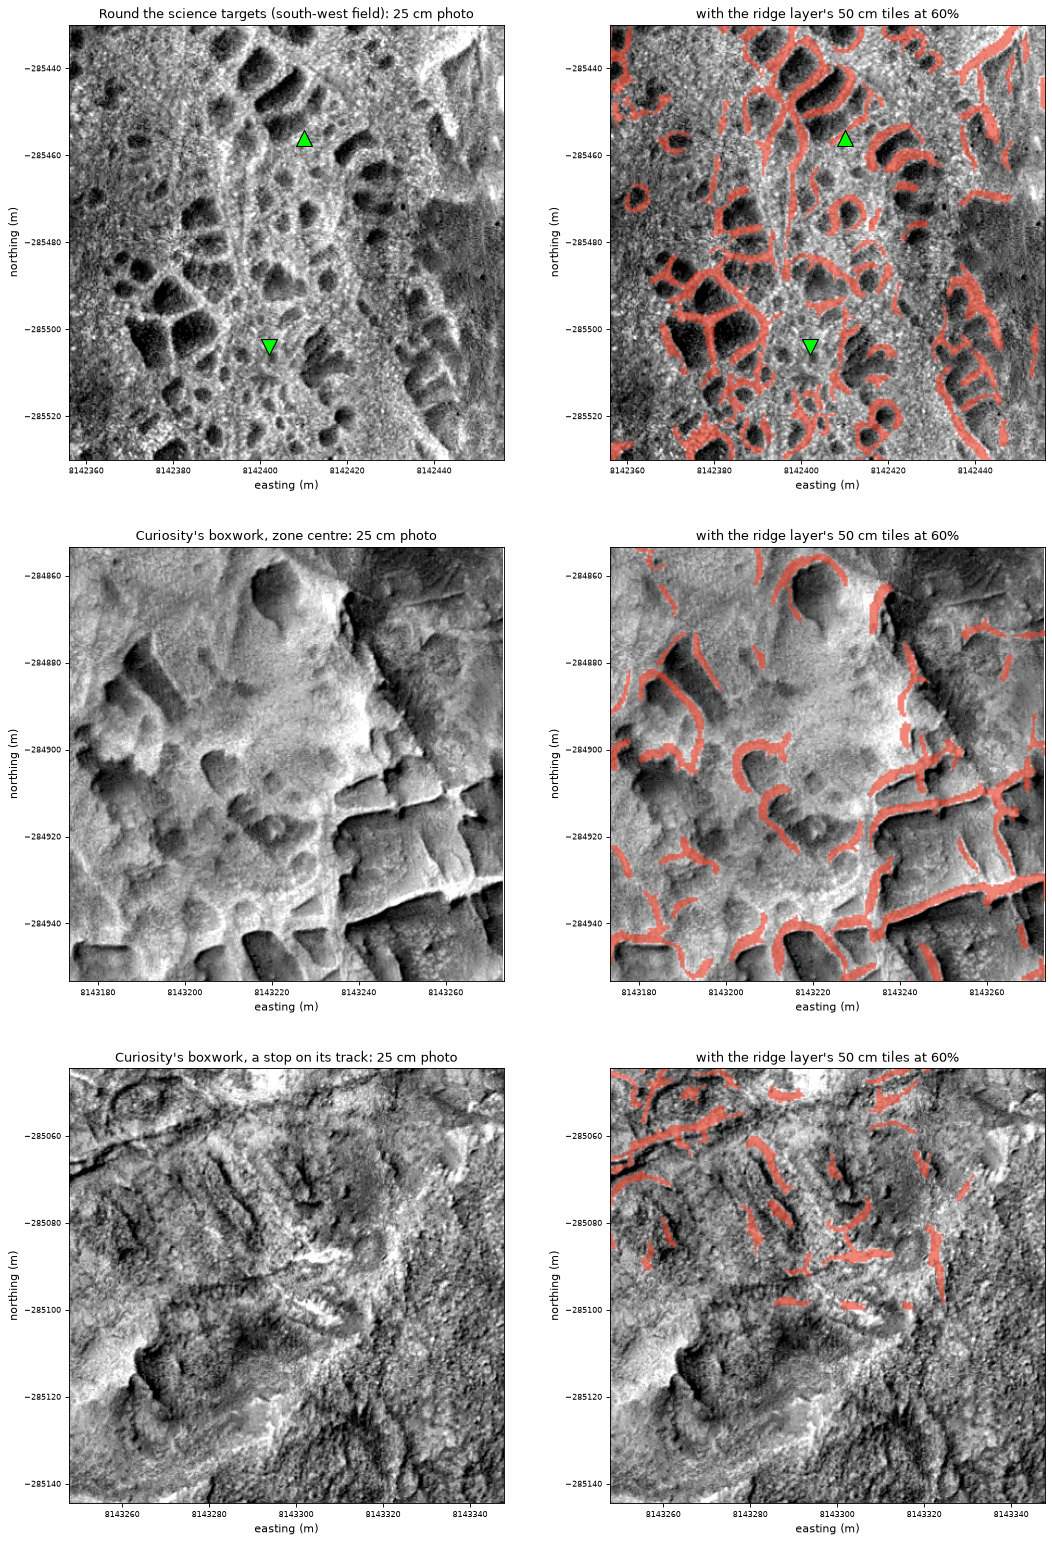
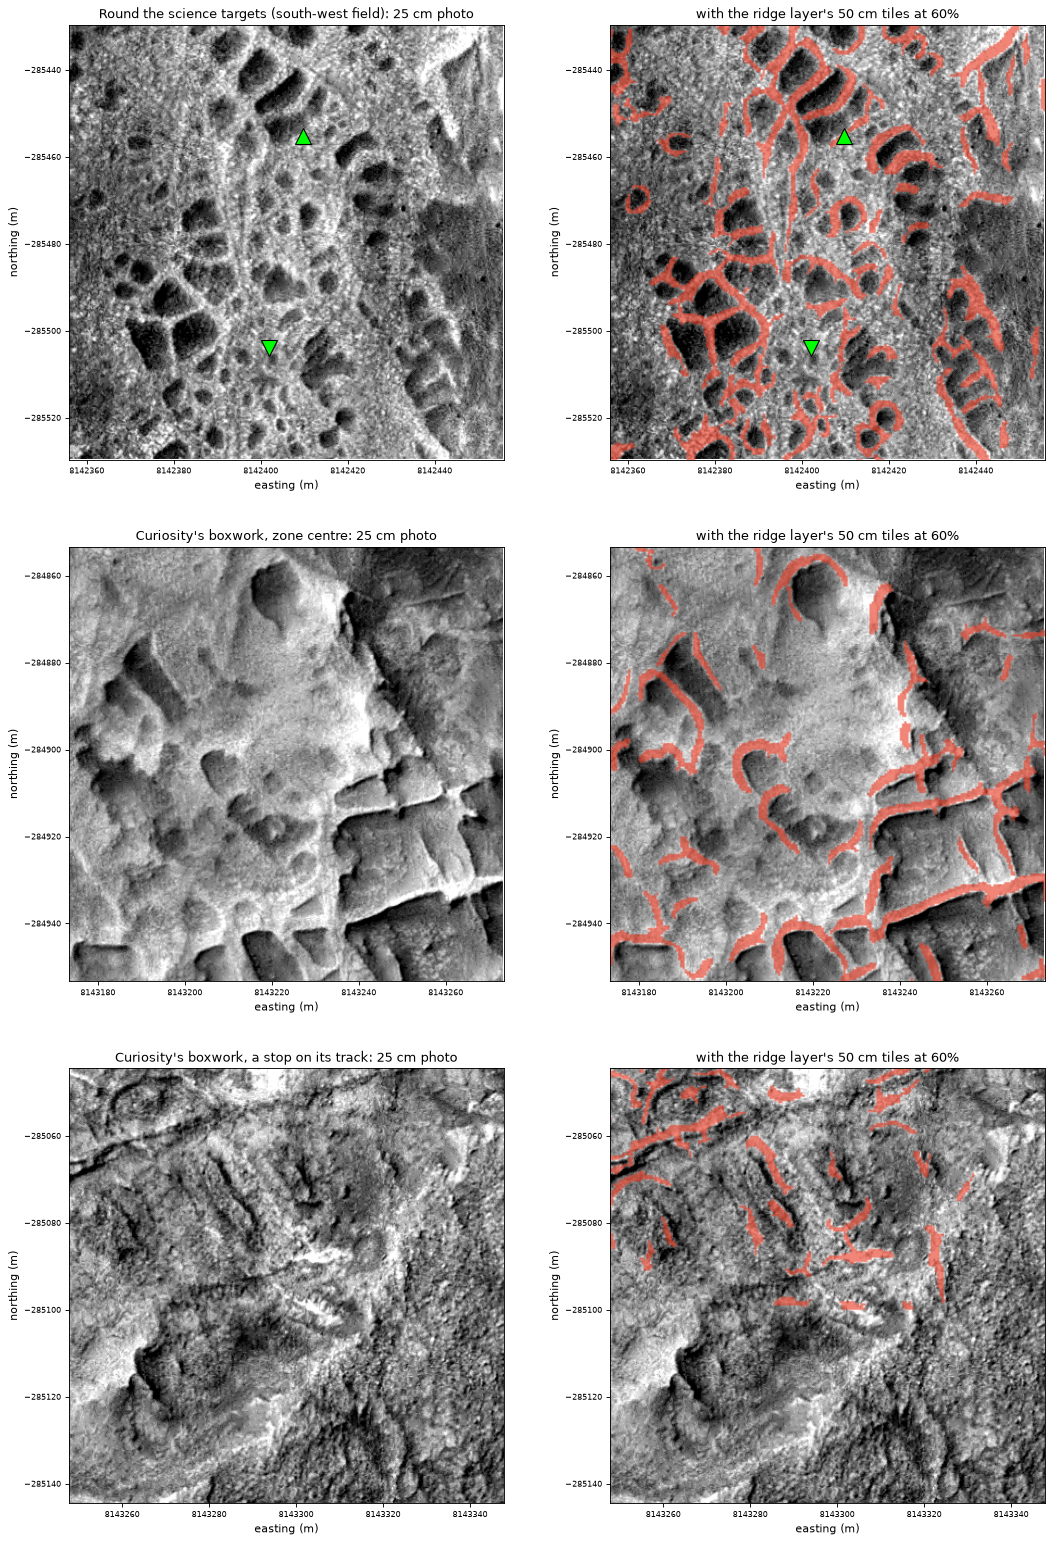
fix: ridge target on the crest, masks staged to the end, drill records by place (#20)

Changed region(s): [[0.0304, 0.0, 0.4867, 0.3111], [0.5475, 0.0, 1.0, 0.3111]]

diff --git a/prep/gale/build_layers_2_3.py b/prep/gale/build_layers_2_3.py
@@ -16,10 +16,11 @@ $REDMARK_DATA/gale/:
 and, in the repo, `files.sand`, `files.ridges` and `science_targets` in sites/gale.yaml
 and copies of the overlays in prep/gale/evidence/.
 
-The science targets are checked before anything is published, the sand and ridge
-rasters included: each must sit inside the walk radius and a boxwork zone, clear of
-Curiosity's track and drill sites, a ridge target on the ridge map and a hollow target
-off it, and the route engine must find a safe route to it from base camp within the
+Nothing live changes until every layer, raster and overlay is built and the science
+targets are checked; then all are published together, the sand and ridge rasters
+included. The targets: each must sit inside the walk radius and a boxwork zone, clear of
+Curiosity's track and drill sites, a ridge target on a ridge pixel and a hollow target
+off the ridge map, and the route engine must find a safe route to it from base camp within the
 app's default limits on the new rasters.
 """
 
@@ -125,11 +126,6 @@ def build(root: Path) -> None:
         daylight_s=daylight_s(json.loads(conditions.read_text())),
     )
     print(f"{len(targets)} science targets pass; {len(drilled)} drill sites in the crop")
-    # Only now do the route engine's rasters change.
-    for key, path in (("sand", SAND_RASTER), ("ridges", RIDGE_RASTER)):
-        (root / path).parent.mkdir(parents=True, exist_ok=True)
-        os.replace(root / staged[key], root / path)
-    sand, ridges = root / SAND_RASTER, root / RIDGE_RASTER
 
     points = [
         {"x": float(r["x"]), "y": float(r["y"]), "so3": float(r["SO3"]), "drill": False}
@@ -142,17 +138,18 @@ def build(root: Path) -> None:
     build_minerals_layer(root / files["crism"], walk, stage / "minerals", crism_source)
     apxs_source = {"name": "MSL APXS RDR concentrations (" + APXS_CREDIT + ")", "url": APXS_URL}
     build_chemistry_layer(points, walk, stage / "chemistry", apxs_source)
+    # Each input as (the path it is published at, where it is now).
     inputs = {
-        "sand": [files["thermal_inertia"], SAND_RASTER],
-        "ridges": [files["photo_map"], RIDGE_RASTER],
-        "minerals": [files["crism"]],
-        "chemistry": [files["chemistry"]],
+        "sand": [(files["thermal_inertia"], root / files["thermal_inertia"]), (SAND_RASTER, sand)],
+        "ridges": [(files["photo_map"], root / files["photo_map"]), (RIDGE_RASTER, ridges)],
+        "minerals": [(files["crism"], root / files["crism"])],
+        "chemistry": [(files["chemistry"], root / files["chemistry"])],
     }
     for name, paths in inputs.items():
         provenance = {
             "script": "prep/gale/build_layers_2_3.py",
             "commit": commit,
-            "inputs": [{"path": p, "sha256": sha256(root / p)} for p in paths]
+            "inputs": [{"path": p, "sha256": sha256(now)} for p, now in paths]
             + [
                 {"path": "sites/gale.yaml", "sha256": hashlib.sha256(config).hexdigest()},
                 {
@@ -163,29 +160,37 @@ def build(root: Path) -> None:
         }
         (stage / name / "provenance.json").write_text(json.dumps(provenance, indent=2) + "\n")
 
+    print("overlays")
+    overlay_dir = stage / "overlays"
+    overlay_dir.mkdir(parents=True, exist_ok=True)
+    photo = root / files["photo_map"]
+    written = [
+        overlays.walkability(photo, stage, walk, habitat, zones, track, overlay_dir),
+        overlays.ridge_samples(
+            photo, stage / "ridges", _sample_areas(spec, track), targets, overlay_dir
+        ),
+        overlays.science(photo, stage, walk, habitat, targets, drilled, track, overlay_dir),
+    ]
+
+    # Everything built and checked: only now does anything live change, the route
+    # engine's rasters included.
     (root / LAYERS).mkdir(parents=True, exist_ok=True)
     for name in inputs:
         publish_stage(stage / name, root / LAYERS / name)
-    shutil.rmtree(stage, ignore_errors=True)
-
-    print("overlays")
-    overlay_dir = root / LAYERS / "overlays"
-    overlay_dir.mkdir(parents=True, exist_ok=True)
-    photo = root / files["photo_map"]
-    layers = root / LAYERS
-    written = [
-        overlays.walkability(photo, layers, walk, habitat, zones, track, overlay_dir),
-        overlays.ridge_samples(
-            photo, layers / "ridges", _sample_areas(spec, track), targets, overlay_dir
-        ),
-        overlays.science(photo, layers, walk, habitat, targets, drilled, track, overlay_dir),
-    ]
+    for key, path in (("sand", SAND_RASTER), ("ridges", RIDGE_RASTER)):
+        (root / path).parent.mkdir(parents=True, exist_ok=True)
+        os.replace(root / staged[key], root / path)
+    # The overlays folder holds layer 1's overlays too, so only these files are replaced.
+    live_overlays = root / LAYERS / "overlays"
+    live_overlays.mkdir(parents=True, exist_ok=True)
     EVIDENCE.mkdir(parents=True, exist_ok=True)
     for png in written:
-        shutil.copy(png, EVIDENCE / png.name)
+        os.replace(png, live_overlays / png.name)
+        shutil.copy(live_overlays / png.name, EVIDENCE / png.name)
+    shutil.rmtree(stage, ignore_errors=True)
 
     _add_to_site_config(targets)
-    print(f"layers written to {layers}")
+    print(f"layers written to {root / LAYERS}")
 
 
 def _sample_areas(spec: dict, track) -> list[tuple[str, tuple[float, float]]]:

diff --git a/prep/tests/test_gale_walkability_science.py b/prep/tests/test_gale_walkability_science.py
@@ -5,14 +5,16 @@ hole stays unknown; the ridge finder finds a grid of bright 1 m lines on flat gr
 not the hollows between them nor a lone bright speck; the route's own reader reads
 both files as masks. Layer writer: each layer.json validates with its group,
 resolution and source. Science targets: a target on a drill site, on Curiosity's
-track or past the walk radius is refused; a ridge target must sit on a ridge and a
-hollow target off one, and a target with any other kind is refused; a target walled off
-from base camp by ground over the slope limit is refused. The sand layer's tiles show
-firm ground in its own legend colour and leave only unknown ground transparent.
+track or past the walk radius is refused; a ridge target must sit on a ridge pixel,
+not beside one, and a hollow target off any; a target with any other kind is refused;
+a target walled off from base camp by ground over the slope limit is refused, and the
+build checks reachability under the app's own default limits. The sand layer's tiles
+show firm ground in its own legend colour and leave only unknown ground transparent.
 
 Expected values are worked by hand from the fixtures, not from the code.
 """
 
+import re
 from pathlib import Path
 
 import numpy as np
@@ -26,9 +28,9 @@ from contracts.models.common import Point
 from contracts.models.layer import LayerMeta
 from contracts.models.route_request import Limits
 from contracts.models.site import SiteConfig
+from contracts.paths import REPO_ROOT
+from prep.gale.build_layers_2_3 import APP_LIMITS
 from prep.gale.layers import (
-    FIRM_COLOUR,
-    SAND_COLOUR,
     build_chemistry_layer,
     build_minerals_layer,
     build_ridges_layer,
@@ -94,11 +96,12 @@ def test_the_sand_tiles_colour_sand_and_firm_ground_and_leave_unknown_transparen
         for r in range(2)
         for c in range(2)
     }
+    # The legend's own swatches, written out so two equal colours can't pass.
     assert colour == {
-        (0, 0): SAND_COLOUR,
-        (0, 1): FIRM_COLOUR,
+        (0, 0): "#e0a43a",
+        (0, 1): "#7a8c99",
         (1, 0): None,
-        (1, 1): FIRM_COLOUR,
+        (1, 1): "#7a8c99",
     }
 
 
@@ -296,7 +299,7 @@ def _check(targets, ridges, **changes):
     check_targets(targets, **args)
 
 
-def test_drill_sites_are_the_tailings_rows_one_per_hole():
+def test_drill_sites_are_the_tailings_rows_one_per_rover_position():
     assert drill_sites(CHEMISTRY_ROWS) == [
         {"name": "Deep_Hole", "sol": 4706, "x": 1110.0, "y": 2010.0}
     ]
@@ -310,7 +313,10 @@ def test_a_ridge_centre_and_a_hollow_clear_of_curiosity_pass(ridges):
     ("target", "changes", "reason"),
     [
         (HOLLOW_TARGET | {"x": 1038.0}, {}, "sits on a ridge"),
-        (RIDGE_TARGET | {"x": 1030.5, "y": 2104.5}, {}, "no ridge within"),
+        (RIDGE_TARGET | {"x": 1030.5, "y": 2104.5}, {}, "not on a ridge pixel"),
+        # Ridge pixels run x 1022 to 1024 here: 1024.4 is beside the crest, 0.65 m
+        # from the nearest ridge pixel's centre.
+        (RIDGE_TARGET | {"x": 1024.4}, {}, "not on a ridge pixel"),
         (
             HOLLOW_TARGET,
             {"drill_sites": [{"name": "Near", "sol": 1, "x": 1030.5, "y": 2140.0}]},
@@ -364,3 +370,19 @@ def test_a_target_walled_off_from_base_camp_is_refused_and_an_open_one_passes():
         )
     refused_ids = [line.split(":")[0] for line in str(refused.value).splitlines()[1:]]
     assert refused_ids == ["walled"]
+
+
+def test_the_builds_route_limits_are_the_apps_defaults():
+    # The app's own defaults, read from its source, so a change there fails here.
+    app = (REPO_ROOT / "app" / "src" / "plan" / "routes.ts").read_text()
+
+    def const(name: str) -> float:
+        return float(re.search(rf"const {name} = ([0-9.]+);", app).group(1))
+
+    default_slope = float(re.search(r"SLOPE_LIMITS = \[([0-9.]+),", app).group(1))
+    assert APP_LIMITS.model_dump() == {
+        "max_slope_deg": default_slope,
+        "max_distance_from_habitat_m": const("MAX_DISTANCE_FROM_HABITAT_M"),
+        "planning_speed_kmh": const("PLANNING_SPEED_KMH"),
+        "max_walk_h": const("MAX_WALK_H"),
+    }

diff --git a/prep/gale/overlays.py b/prep/gale/overlays.py
@@ -471,13 +471,15 @@ def science(photo, layers, walk, habitat, targets, drilled, track, folder) -> Pa
     _show_gray(overview, image, extent)
     colours, c_extent = _mosaic(layers / "chemistry", meta["tiles"]["max_zoom"])
     overview.imshow(_masked(colours), extent=c_extent)
-    _drill_labels(overview, inside)
+    places = _drill_places(inside)
+    _drill_labels(overview, places)
     overview.plot(*habitat, "*", c="cyan", ms=16, mec="black")
     overview.set_xlim(whole[0], whole[2])
     overview.set_ylim(whole[1], whole[3])
     overview.legend(handles=_legend(meta), loc="lower left", fontsize=8)
     overview.set_title(
-        f"Whole chemistry layer, 1 m tiles: APXS points by SO3 and {len(inside)} drill sites"
+        f"Whole chemistry layer, 1 m tiles: APXS points by SO3; {len(inside)} APXS records on"
+        f" drill tailings at {len(places)} places"
     )
 
     cx = sum(d["x"] for d in inside) / len(inside)
@@ -488,7 +490,7 @@ def science(photo, layers, walk, habitat, targets, drilled, track, folder) -> Pa
     colours, c_extent = _mosaic(layers / "chemistry", meta["tiles"]["max_zoom"], box)
     zoom.imshow(_masked(colours), extent=c_extent)
     _drill_labels(
-        zoom, [d for d in inside if box[0] <= d["x"] <= box[2] and box[1] <= d["y"] <= box[3]]
+        zoom, [p for p in places if box[0] <= p["x"] <= box[2] and box[1] <= p["y"] <= box[3]]
     )
     zoom.set_xlim(box[0], box[2])
     zoom.set_ylim(box[1], box[3])
@@ -498,11 +500,33 @@ def science(photo, layers, walk, habitat, targets, drilled, track, folder) -> Pa
     return out
 
 
-def _drill_labels(ax, drilled) -> None:
+# Drill-tailings records this close share one label: the record does not say whether
+# they are one hole (Nevado Sajama and Nevado Sajama2 sit 0.7 m apart).
+DRILL_PLACE_M = 2.0
+
+
+def _drill_places(drilled) -> list[dict]:
+    """Drill-tailings records grouped by place, each {"x", "y", "label"}."""
+    places: list[dict] = []
     for d in drilled:
+        near = next(
+            (p for p in places if math.dist((p["x"], p["y"]), (d["x"], d["y"])) <= DRILL_PLACE_M),
+            None,
+        )
+        if near is None:
+            near = {"x": d["x"], "y": d["y"], "records": []}
+            places.append(near)
+        near["records"].append(f"{d['name']} (sol {d['sol']})")
+    return [{"x": p["x"], "y": p["y"], "label": ", ".join(p["records"])} for p in places]
+
+
+def _drill_labels(ax, places) -> None:
+    # Each label one line lower than the last, so places metres apart stay readable.
+    for i, p in enumerate(places):
         ax.annotate(
-            f"{d['name']} (sol {d['sol']})", (d["x"], d["y"]), color="cyan", fontsize=8,
-            xytext=(8, -4), textcoords="offset points",
+            p["label"], (p["x"], p["y"]), color="cyan", fontsize=8,
+            xytext=(8, -4 - 11 * i), textcoords="offset points",
+            arrowprops={"arrowstyle": "-", "color": "cyan", "lw": 0.5},
         )  # fmt: skip
 
 

diff --git a/prep/gale/science.py b/prep/gale/science.py
@@ -45,14 +45,16 @@ def mineral_classes(bands: dict[str, np.ndarray]) -> np.ndarray:
 TARGET_CLEAR_OF_TRACK_M = 25.0
 TARGET_CLEAR_OF_DRILL_M = 50.0
 TARGET_KINDS = ("ridge", "hollow")
-# A ridge target sits on the ridge map; a hollow target has no ridge this close.
-RIDGE_TARGET_WITHIN_M = 1.0
+# A ridge target sits on a ridge pixel of the ridge map (its centre, not beside it); a
+# hollow target has no ridge pixel this close.
 HOLLOW_CLEAR_OF_RIDGE_M = 3.0
 
 
 def drill_sites(chemistry_rows: list[dict]) -> list[dict]:
-    """Curiosity's drill holes, one per hole: the APXS rows measured on drill tailings,
-    named after the hole (e.g. Altadena_tailings -> Altadena), at the first such sol."""
+    """Curiosity's drill sites, one per rover position: the APXS rows measured on drill
+    tailings, named after the hole (e.g. Altadena_tailings -> Altadena), at the first
+    such sol. Two records at different positions stay two, even when they may be the
+    same hole."""
     sites: dict[tuple[float, float], dict] = {}
     for row in sorted(chemistry_rows, key=lambda r: int(r["sol"])):
         name, found, _ = row["target"].partition("_tailings")
@@ -99,10 +101,8 @@ def check_targets(
             problems.append(f"{t['id']}: {to_track:.0f} m from Curiosity's track")
         if not any(inside_polygon(at, zone) for zone in zones):
             problems.append(f"{t['id']}: outside every boxwork zone")
-        if t["kind"] == "ridge" and not _ridge_within(
-            ridge_map, transform, at, RIDGE_TARGET_WITHIN_M
-        ):
-            problems.append(f"{t['id']}: no ridge within {RIDGE_TARGET_WITHIN_M:g} m")
+        if t["kind"] == "ridge" and not _on_ridge(ridge_map, transform, at):
+            problems.append(f"{t['id']}: not on a ridge pixel")
         if t["kind"] == "hollow" and _ridge_within(
             ridge_map, transform, at, HOLLOW_CLEAR_OF_RIDGE_M
         ):
@@ -134,6 +134,12 @@ def check_reachable(
             problems.append(f"{t['id']}: no safe route from base camp ({refused.detail})")
     if problems:
         raise ValueError("science targets not reachable:\n" + "\n".join(problems))
+
+
+def _on_ridge(ridge_map: np.ndarray, transform, at: tuple[float, float]) -> bool:
+    col, row = (math.floor(v) for v in ~transform * at)
+    inside = 0 <= row < ridge_map.shape[0] and 0 <= col < ridge_map.shape[1]
+    return inside and bool(ridge_map[row, col] == 1)
 
 
 def _ridge_within(ridge_map: np.ndarray, transform, at: tuple[float, float], radius: float) -> bool:

diff --git a/prep/README.md b/prep/README.md
@@ -41,7 +41,7 @@ Every Jezero position is in the site frame `+proj=eqc +lat_ts=18.4663 +lon_0=0 +
 - **Sand.** A 100 m cell is loose sand where THEMIS thermal inertia is under 350. That is a RedMark cutoff, not a published one. Most of Gale reads 250 to 410, an indurated surface mixed with loose material (Fergason et al. 2012). Under 350 is the loose end, about a fifth of the walk area: the dark floor to the south and east. The THEMIS offset recorded in P2-01 (up to about 250 m, weak correlation) applies here too, so read sand at the 100 m scale, never per metre. `sand.tif` is 1 for sand, 0 for firm ground and 255 for unknown. The layer shows sand and firm ground each in its own colour, and leaves only unknown ground transparent.
 - **Ridges.** The finder looks for bright lines 0.75 to 1.25 m across on the photo, averaged to 50 cm. Each pixel is first set against its surroundings within 10 m, so a ridge reads the same in bright and dark ground. Ridge strength is the curvature across the line. Pixels stronger than 0.4 are ridge, and pieces under 8 m² are dropped. It traces the lit rims of the boxwork cells well, but it also marks layered bedrock and sand ripples, which have the same local contrast. So ridges are mapped only inside the boxwork zones in `walk_area.yaml`, traced by eye: the network Curiosity drove through, and the off-track field 450 m south-west of the habitat. Outside them `ridges.tif` is 0, meaning not mapped. `ridge-samples.png` sets the ridge tiles beside the photo in three areas: round the targets, at the centre of Curiosity's boxwork, and at a stop on its track. The rough bedrock at the stop on the track gets the weakest map: some rims are missed.
 - **Minerals.** Four CRISM summary parameters (Viviano-Beck et al. 2014): BD1900R2 (hydrated minerals), D2300 (Fe/Mg clay), BD2100_2 (monohydrated sulfate) and SINDEX2 (polyhydrated sulfate). A pixel is highlighted where an index is positive and in the walk area's top 5%; where two apply, the later one in that list wins. The indices here are weak, so this shows where each mineral is strongest in the walk area, not a detection. It uses the P2-01 crop with CRISM already moved onto the base map.
-- **Chemistry.** Every APXS point in the walk area as a 3 m dot, coloured by SO3 (bands at 10, 15 and 20 wt%; the median is about 14). Drill sites are 6 m cyan dots. `science.png` shows the whole layer, then a close-up round the drill sites. A drill site is an APXS row measured on drill tailings (`*_tailings`): 8 in the crop, 4 in the walk area (Altadena, Valle de la Luna, Nevado Sajama, and Nevado Sajama2 at the same hole). A hole Curiosity drilled but APXS never measured would be missed.
-- **Science targets.** Set in `walk_area.yaml`: a lit ridge between two pits in the south-west field, and the floor of a 20 m cell closed in by ridges 50 m south of it. Before anything is published, the sand and ridge rasters included, the build checks each target and refuses the lot if one fails. The rules: within the 2 km walk radius, inside a boxwork zone, at least 25 m from Curiosity's track and 50 m from every drill site, a ridge target within 1 m of a ridge pixel, a hollow target with no ridge pixel within 3 m, a kind of `ridge` or `hollow`, and a fastest route from base camp that the route engine finds on the new rasters under the app's default limits (20°, 2 km from the habitat, 2 km/h, 6 h, sol 4600's daylight). That last rule moved both targets: the route engine plans on 4 m cells that each keep their steepest metre, which walls off most of the field's hollows at 20°. At the cautious 15° no route leaves base camp at all.
+- **Chemistry.** Every APXS point in the walk area as a 3 m dot, coloured by SO3 (bands at 10, 15 and 20 wt%; the median is about 14). Drill sites are 6 m cyan dots. `science.png` shows the whole layer, then a close-up round the drill sites. A drill site is an APXS row measured on drill tailings (`*_tailings`), one per rover position: 8 in the crop, 4 in the walk area (Altadena, Valle de la Luna, Nevado Sajama, and Nevado Sajama2 0.7 m from it). The record does not say whether those two are one hole, so the overlay labels them together and counts 4 records at 3 places. A hole Curiosity drilled but APXS never measured would be missed.
+- **Science targets.** Set in `walk_area.yaml`: a lit ridge between two pits in the south-west field, and the floor of a 20 m cell closed in by ridges 50 m south of it. Nothing live changes until every layer, raster and overlay is built and every target passes; then all are published together, the route engine's sand and ridge rasters included. The build refuses the lot if one target fails. The rules: within the 2 km walk radius, inside a boxwork zone, at least 25 m from Curiosity's track and 50 m from every drill site, a ridge target on a ridge pixel (not beside one), a hollow target with no ridge pixel within 3 m, a kind of `ridge` or `hollow`, and a fastest route from base camp that the route engine finds on the new rasters under the app's default limits (20°, 2 km from the habitat, 2 km/h, 6 h, sol 4600's daylight). A test reads those defaults from `app/src/plan/routes.ts`, so the build's copy can't drift from the app's. That last rule moved both targets: the route engine plans on 4 m cells that each keep their steepest metre, which walls off most of the field's hollows at 20°. At the cautious 15° no route leaves base camp at all.
 - **Stubs.** `contracts/stubs/stub-data/gale/rasters/sand.tif` and `ridges.tif` are 40 × 40 cells of 100 m, all 0 (firm, ridge-free), force-added like the slope stub, so the route engine finds every file `sites/gale.yaml` names when `REDMARK_DATA` is unset.
 - **Rolling out.** As with layer 1: copy `gale/rasters/sand.tif`, `gale/rasters/ridges.tif` and `gale/layers/` into each `REDMARK_DATA` before that checkout pulls this config, or `POST /route` fails.
